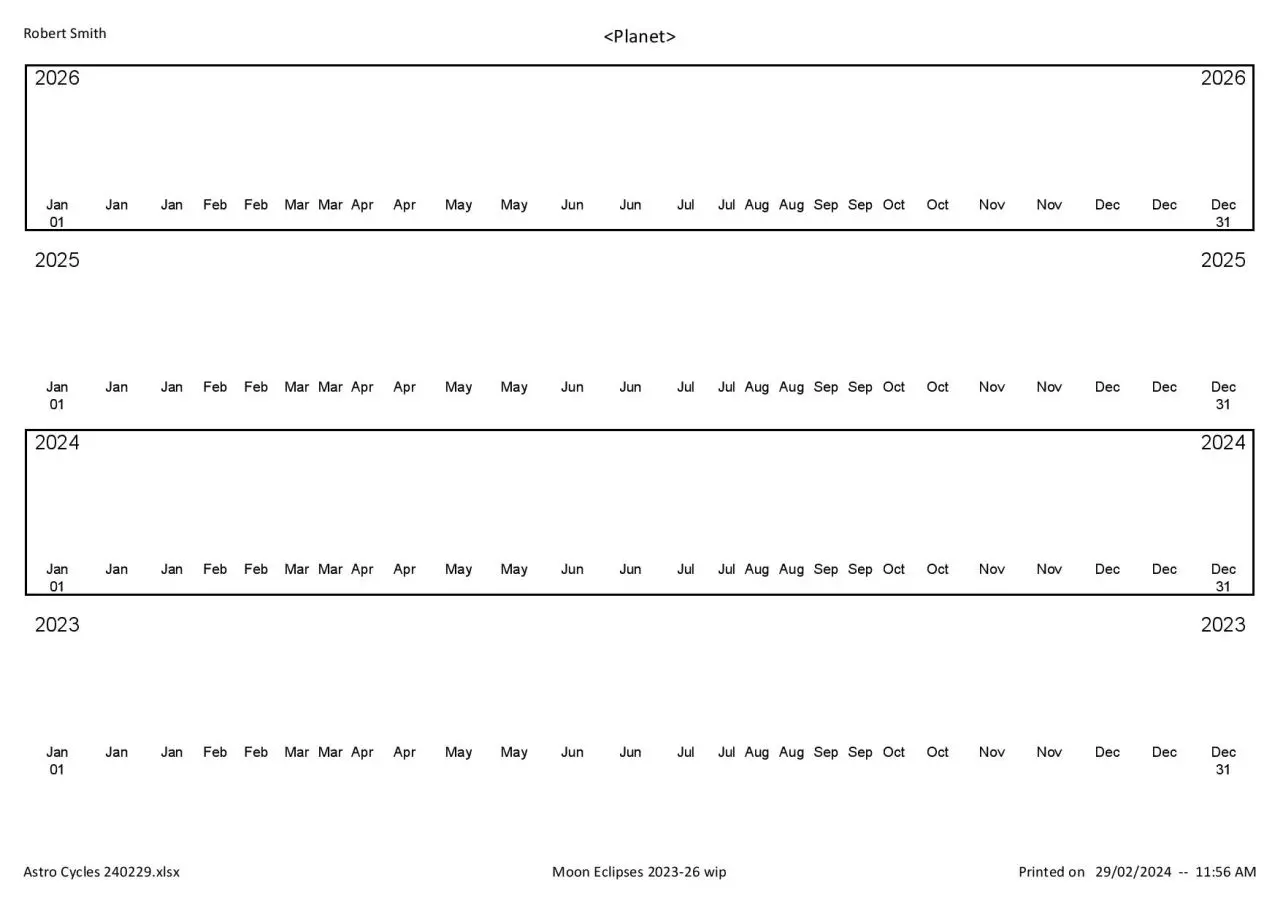
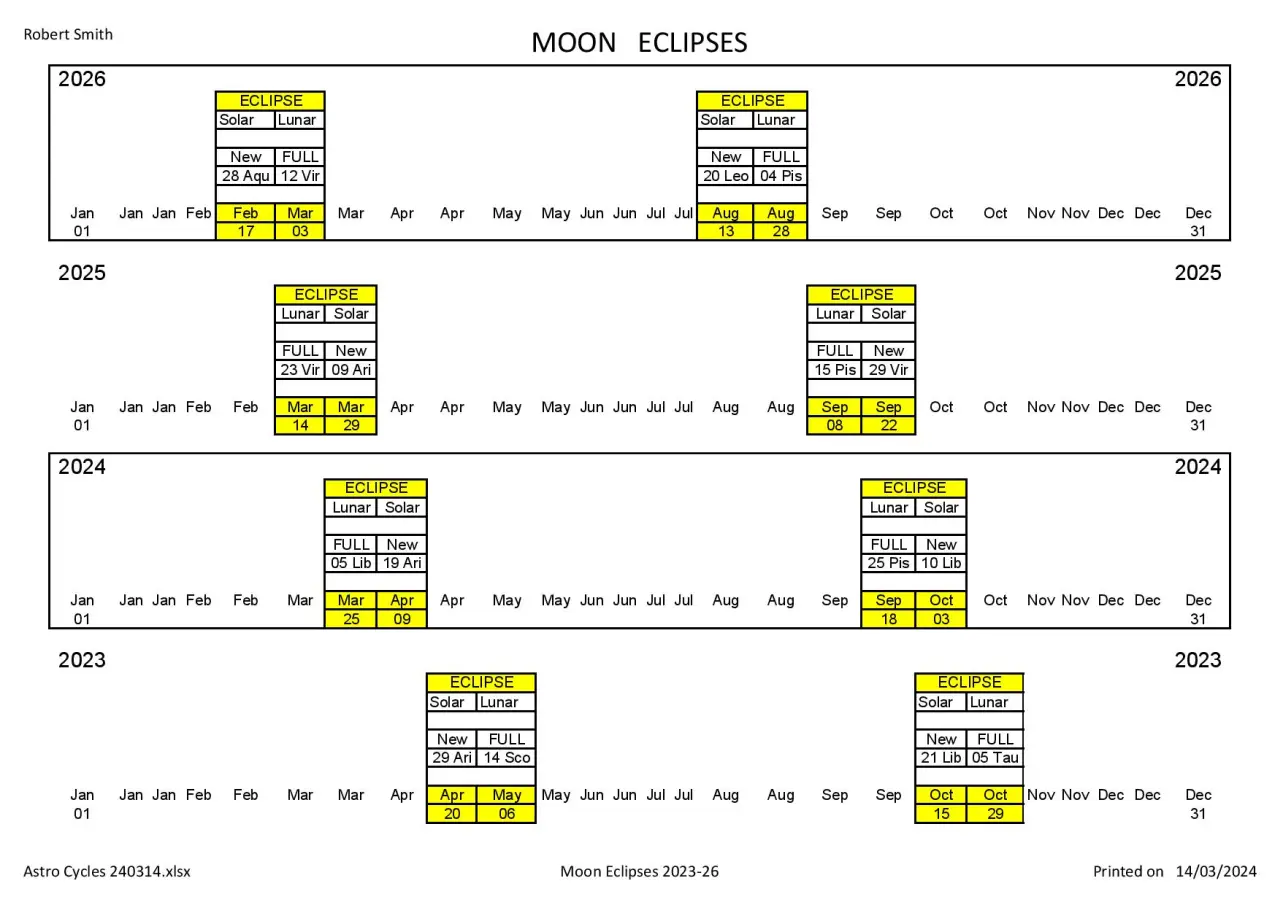
Charts of Moon's Eclipses (2015-2026) updated

diff --git a/2_TbxPatnPlnt.html b/2_TbxPatnPlnt.html
@@ -75,14 +75,14 @@ File: 1_TbxPatnPlanets.html
 				<tr><td class="centerLM">2018</td><td>FEB 01 ... FEB 16</td><td>JUL 13 ... AUG 11</td><td></td></tr>
 				<tr><td></td><td></td><td></td><td>.</td></tr>
 				<tr><td class="centerLM">2017</td><td>FEB 11 ... FEB 27</td><td>AUG 08 ... AUG 22</td><td></td></tr>
-				<tr><td class="centerLM">2016</td><td></td><td></td><td></td></tr>
+				<tr><td class="centerLM">2016</td><td>MAR 09 ... MAR 23</td><td>SEP 01 ... SEP 17</td><td></td></tr>
 				<tr><td></td><td></td><td></td><td>.</td></tr>
-				<tr><td class="centerLM">2015</td><td></td><td></td><td></td></tr>
+				<tr><td class="centerLM">2015</td><td>JAN 20 ... FEB 04</td><td>SEP 13 ... SEP 28</td><td></td></tr>
 				<tr><td><a href="#TOP">TOP</td><td></td><td></td><td></td></tr>
 			</table>
 			<br><br>
 
-			<img src="./Images/Tbx/Img_Moon Eclipses 2023-26 sml.webp" alt="WIP: Moon Eclipses 2023-26 sml" style="width: 90%">
+			<img src="./Images/Tbx/Img_Moon Eclipses 2023-26 sml.webp" alt="Moon Eclipses 2023-26" style="width: 90%">
 			<figcaption>
 				<!-- EEX  -->
 				<a href="#Top">TOP</a>, <a href="3_TbxPatnPlntMnEcl.html">PREVIOUS</a>_YEARS, <a href="https://1drv.ms/f/s!An97-EjP-gfbiAXdp1pRBCf77w37?e=OrPgiq" target="_blank">MORE...</a>(.1drv

diff --git a/index.html b/index.html
@@ -72,7 +72,7 @@ File: index.html
 
 				<tr><td><a href="#Top">TOP</td><td></td></tr>
 				<!--<tr><td>- - - - - - - -</td><td>- - - - - - - - -</td></tr>-->
-				<tr><td>12 MAR 2024</td><td>+ LATEST <a href="0_HmUpdates.html">UPDATES</td></tr>
+				<tr><td>14 MAR 2024</td><td>+ LATEST <a href="0_HmUpdates.html">UPDATES</td></tr>
 				</table>
 		</center>
 		<br><br>	
